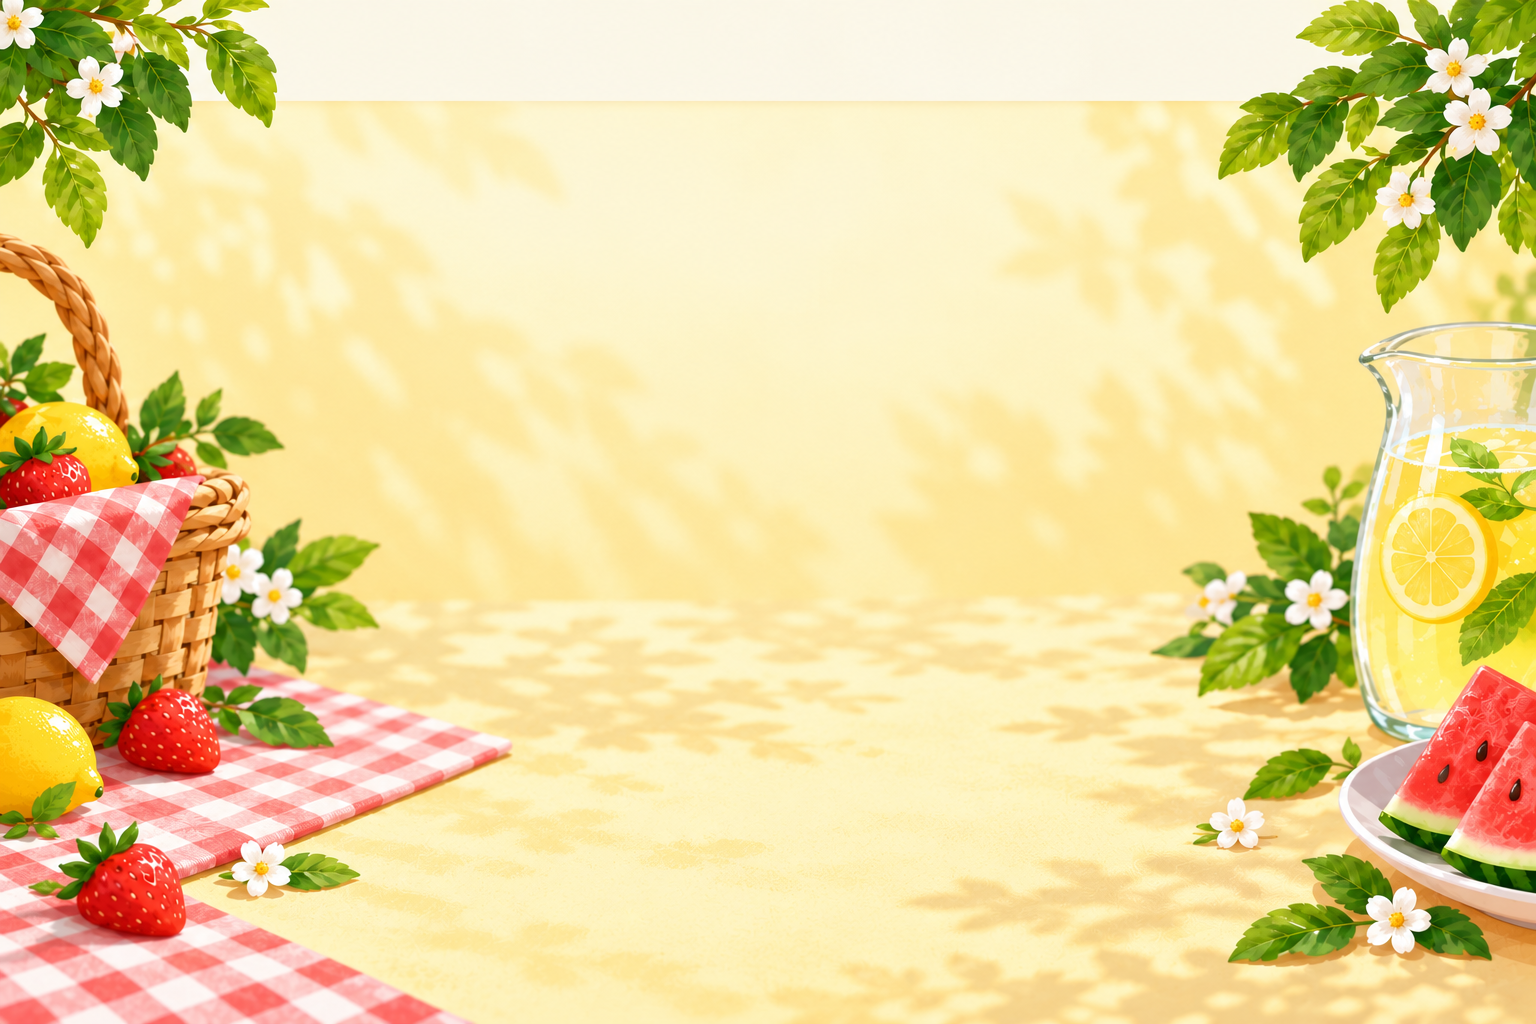
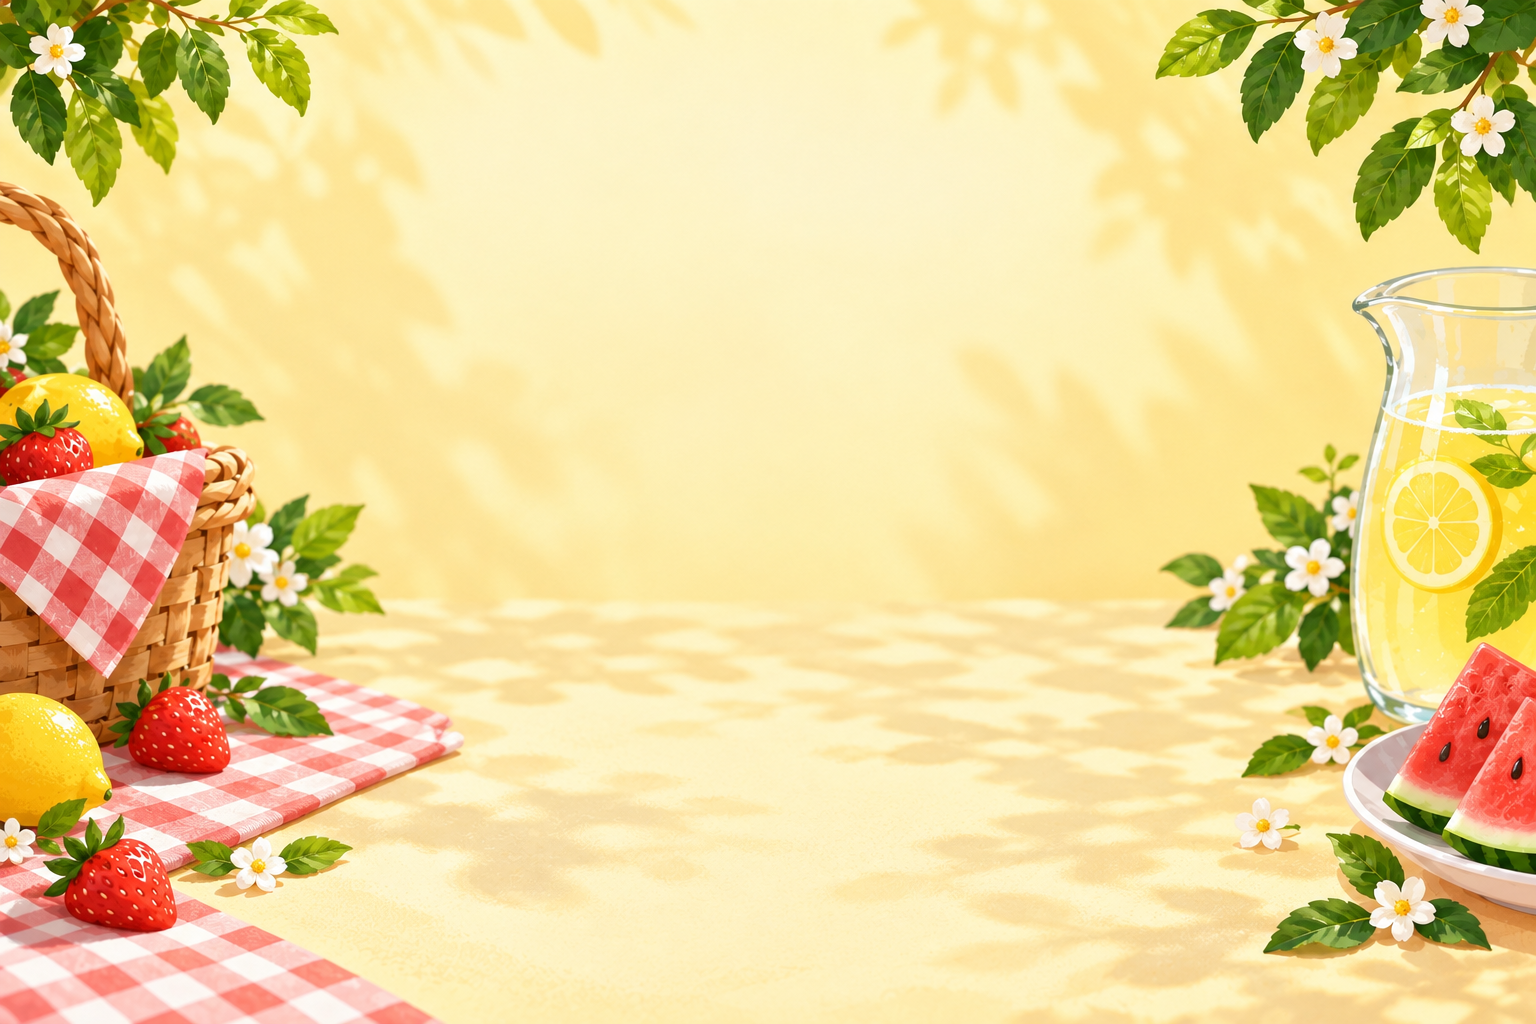
feat: add html structure with js and styles

diff --git a/style.css b/style.css
@@ -1,0 +1,260 @@
+:root {
+  --color-text: #244821;
+  --color-accent: #e84f41;
+  --color-cream: rgba(255, 247, 226, 0.92);
+  --color-border: rgba(80, 100, 55, 0.2);
+  --shadow-soft: 0 4px 12px rgba(76, 55, 24, 0.12);
+}
+
+/* general */
+* {
+  margin: 0;
+  padding: 0;
+}
+
+*,
+*::before,
+*::after {
+  box-sizing: border-box;
+}
+
+html,
+body {
+  width: 100%;
+  height: 100%;
+}
+
+html {
+  scroll-behavior: smooth;
+}
+
+body {
+  display: flex;
+  flex-direction: column;
+  height: 100dvh;
+  overflow: hidden;
+  font-family: "Nunito", sans-serif;
+  background: url("./img/main-bg.png") center / cover no-repeat;
+  color: var(--color-text);
+  font-weight: 600;
+}
+
+h1,
+h2 {
+  font-weight: 800;
+}
+
+button {
+  font-size: clamp(0.72rem, 1.4vw, 1.5rem);
+  padding: 0.5em 0.75em;
+  border-radius: 0.5em;
+  font-weight: 700;
+  border: none;
+  background: transparent;
+  transition: all 0.3s ease;
+  cursor: pointer;
+}
+
+/* header */
+.header_wrapper {
+  display: flex;
+  justify-content: space-between;
+  align-items: center;
+  width: 100%;
+  flex: 0 0 auto;
+  padding: clamp(12px, 2vh, 24px) clamp(12px, 5vw, 10vw);
+  background: var(--color-cream);
+  border-bottom: 1px solid var(--color-border);
+  box-shadow: 0 3px 12px rgba(76, 55, 24, 0.12);
+}
+
+.logo_wrapper,
+.header_btns_wrapper {
+  display: flex;
+  justify-content: center;
+  align-items: center;
+  gap: clamp(6px, 1.2vw, 16px);
+}
+
+.logo_img {
+  display: block;
+  width: clamp(48px, 8vw, 120px);
+  height: auto;
+}
+
+.game_name {
+  font-size: clamp(1.25rem, 2.8vw, 2.5rem);
+  color: var(--color-accent);
+}
+
+.header_btns_wrapper > button {
+  display: flex;
+  justify-content: center;
+  align-items: center;
+  gap: 8px;
+  font-size: clamp(1rem, 1.5vw, 1.4rem);
+  line-height: 1;
+  white-space: nowrap;
+  border-radius: 12px;
+  box-sizing: border-box;
+  flex: 0 0 clamp(150px, 15vw, 220px);
+  height: clamp(48px, 6vh, 64px);
+  padding: 0 12px;
+  box-shadow: var(--shadow-soft);
+}
+
+.new_game_btn {
+  color: #fff7f2;
+  background: var(--color-accent);
+  border: 1px solid var(--color-accent);
+}
+
+.leaderboard_btn {
+  color: var(--color-text);
+  background: var(--color-cream);
+  border: 1px solid var(--color-border);
+}
+
+@media (hover: hover) {
+  .leaderboard_btn:hover,
+  .new_game_btn:hover {
+    box-shadow: 0 6px 16px rgba(76, 55, 24, 0.18);
+    transform: translateY(-2px);
+  }
+
+  .new_game_btn:hover {
+  background: #d94638;
+  border-color: #d94638;
+  }
+}
+
+.trophy_img {
+  flex: 0 0 auto;
+  width: 24px;
+  height: 24px;
+  object-fit: contain;
+}
+
+/* main */
+.main_wrapper {
+  flex: 1 1 auto;
+  min-height: 0;
+  display: grid;
+  grid-template-rows: auto minmax(0, 1fr) auto;
+  justify-items: center;
+  gap: clamp(2px, 0.8vh, 8px);
+  padding-block: clamp(2px, 0.8vh, 8px);
+}
+
+.main_header {
+  display: flex;
+  justify-content: center;
+  align-items: center;
+  width: 100%;
+  padding: clamp(2px, 0.8vh, 12px) 12px;
+}
+
+.leave_left_img,
+.leave_right_img {
+  width: clamp(28px, 8vw, 120px);
+  height: auto;
+}
+
+.main_header_content {
+  text-align: center;
+}
+
+.main_header_title {
+  font-size: clamp(1.4rem, 4vw, 3.5rem);
+}
+
+.main_header_text {
+  font-size: clamp(0.85rem, 1.8vw, 1.5rem);
+}
+
+.game_board {
+  display: grid;
+  align-self: center;
+  justify-self: center;
+  grid-template-columns: repeat(4, minmax(0, 1fr));
+  grid-template-rows: repeat(4, minmax(0, 1fr));
+  gap: clamp(4px, 0.8vw, 12px);
+  width: min(90vw, 70vh);
+  max-width: 100%;
+  max-height: 100%;
+  aspect-ratio: 1;
+}
+
+.card {
+  min-width: 0;
+  min-height: 0;
+  overflow: hidden;
+  border-radius: clamp(8px, 1vw, 14px);
+  transition: all 0.3s ease;
+  cursor: pointer;
+}
+
+@media (hover: hover) {
+    .card:hover {
+    transform: translateY(-2px);
+  }
+}
+
+.card_img {
+  display: block;
+  width: 100%;
+  height: 100%;
+  object-fit: contain;
+  transform: scale(1.2);
+}
+
+/* footer */
+.footer_wrapper {
+  display: flex;
+  justify-content: center;
+  width: min(90vw, 420px);
+  margin: 0 auto clamp(12px, 2vh, 24px);
+  padding: clamp(10px, 1.5vh, 18px) 16px clamp(14px, 2vh, 24px);
+  border: 1px solid var(--color-border);
+  border-radius: 1.5rem;
+  background: var(--color-cream);
+  box-shadow: var(--shadow-soft);
+}
+
+.stat_item {
+  flex: 1;
+  text-align: center;
+}
+
+.stat_item + .stat_item {
+  border-left: 1px solid var(--color-border);
+}
+
+.stat_label {
+  font-size: 0.9rem;
+  font-weight: 800;
+}
+
+.stat_value {
+  font-size: clamp(1.7rem, 3.5vh, 2.4rem);
+  margin-top: 0.1rem;
+  line-height: 1;
+  font-weight: 800;
+}
+
+@media (max-height: 620px) {
+  .header_wrapper {
+    flex-direction: column;
+    gap: 8px;
+    padding-block: 8px;
+  }
+
+  .main_header {
+    padding-block: 0;
+  }
+
+  .leave_left_img,
+  .leave_right_img {
+    width: clamp(24px, 6vw, 72px);
+  }
+}

diff --git a/script.js b/script.js
@@ -1,0 +1,99 @@
+// CREATE STRUCTURE
+//header
+const header = createElement("header", "header_wrapper");
+
+const logoWrapper = createElement("div", "logo_wrapper");
+const logoImg = createElement("img", "logo_img");
+const gameName = createElement("h1", "game_name", "Fruit Match");
+
+const headerBtnsWrapper = createElement("div", "header_btns_wrapper");
+const newGameBtn = createElement("button", "new_game_btn", "New Game");
+const leaderboardBtn = createElement("button", "leaderboard_btn");
+const trophyImg = createElement("img", "trophy_img");
+const leaderboardName = createElement(
+  "span",
+  "leaderboard_name",
+  "Leaderboard",
+);
+
+logoImg.src = "./img/logo-orange.png";
+logoImg.alt = "Fruit Match";
+trophyImg.src = "./img/leaderboard-trophy.png";
+trophyImg.alt = "";
+
+header.append(logoWrapper, headerBtnsWrapper);
+logoWrapper.append(logoImg, gameName);
+headerBtnsWrapper.append(newGameBtn, leaderboardBtn);
+leaderboardBtn.append(trophyImg, leaderboardName);
+
+//main
+const main = createElement("main", "main_wrapper");
+
+const mainHeader = createElement("div", "main_header");
+const leaveLeftImg = createElement("img", "leave_left_img");
+const mainHeaderContent = createElement("div", "main_header_content");
+const mainHeaderTitle = createElement(
+  "h2",
+  "main_header_title",
+  "Find all pairs",
+);
+const mainHeaderText = createElement(
+  "p",
+  "main_header_text",
+  "A little game for a sunny day",
+);
+const leaveRightImg = createElement("img", "leave_right_img");
+
+const gameBoard = createElement("div", "game_board");
+
+leaveLeftImg.src = "./img/leave-right.png";
+leaveLeftImg.alt = "";
+leaveRightImg.src = "./img/leave-left.png";
+leaveRightImg.alt = "";
+
+main.append(mainHeader, gameBoard);
+mainHeader.append(leaveLeftImg, mainHeaderContent, leaveRightImg);
+mainHeaderContent.append(mainHeaderTitle, mainHeaderText);
+
+for (let i = 0; i < 16; i++) {
+  const card = createElement("div", "card");
+  gameBoard.append(card);
+  const cardImg = createElement("img", "card_img");
+  card.append(cardImg);
+  cardImg.src = "./img/card-back.png";
+  cardImg.alt = "";
+}
+
+//footer
+const footer = createElement("footer", "footer_wrapper");
+
+const movesBox = createElement("div", "stat_item");
+const movesLabel = createElement("p", "stat_label", "MOVES");
+const movesValue = createElement("p", "stat_value", "00");
+
+const pairsBox = createElement("div", "stat_item");
+const pairsLabel = createElement("p", "stat_label", "PAIRS");
+const pairsValue = createElement("p", "stat_value", "0 / 0");
+
+movesValue.id = "moves_value";
+pairsValue.id = "pairs_value";
+
+movesBox.append(movesLabel, movesValue);
+pairsBox.append(pairsLabel, pairsValue);
+footer.append(movesBox, pairsBox);
+
+document.body.append(header, main, footer);
+
+function createElement(tag, className, text) {
+  const element = document.createElement(tag);
+
+  if (className) {
+    element.classList.add(className);
+  }
+
+  if (text !== undefined) {
+    element.textContent = text;
+  }
+
+  return element;
+}

diff --git a/index.html b/index.html
@@ -1,0 +1,19 @@
+<!doctype html>
+<html lang="en">
+  <head>
+    <meta charset="UTF-8" />
+    <meta name="viewport" content="width=device-width, initial-scale=1.0" />
+    <link rel="stylesheet" href="./style.css" />
+    <link rel="icon" href="./img/orange.png" />
+    <link rel="preconnect" href="https://fonts.googleapis.com" />
+    <link rel="preconnect" href="https://fonts.gstatic.com" crossorigin />
+    <link
+      href="https://fonts.googleapis.com/css2?family=Nunito:wght@400;600;700;800&display=swap"
+      rel="stylesheet"
+    />
+    <title>Memory Game</title>
+  </head>
+  <body>
+    <script src="script.js" type="module"></script>
+  </body>
+</html>
